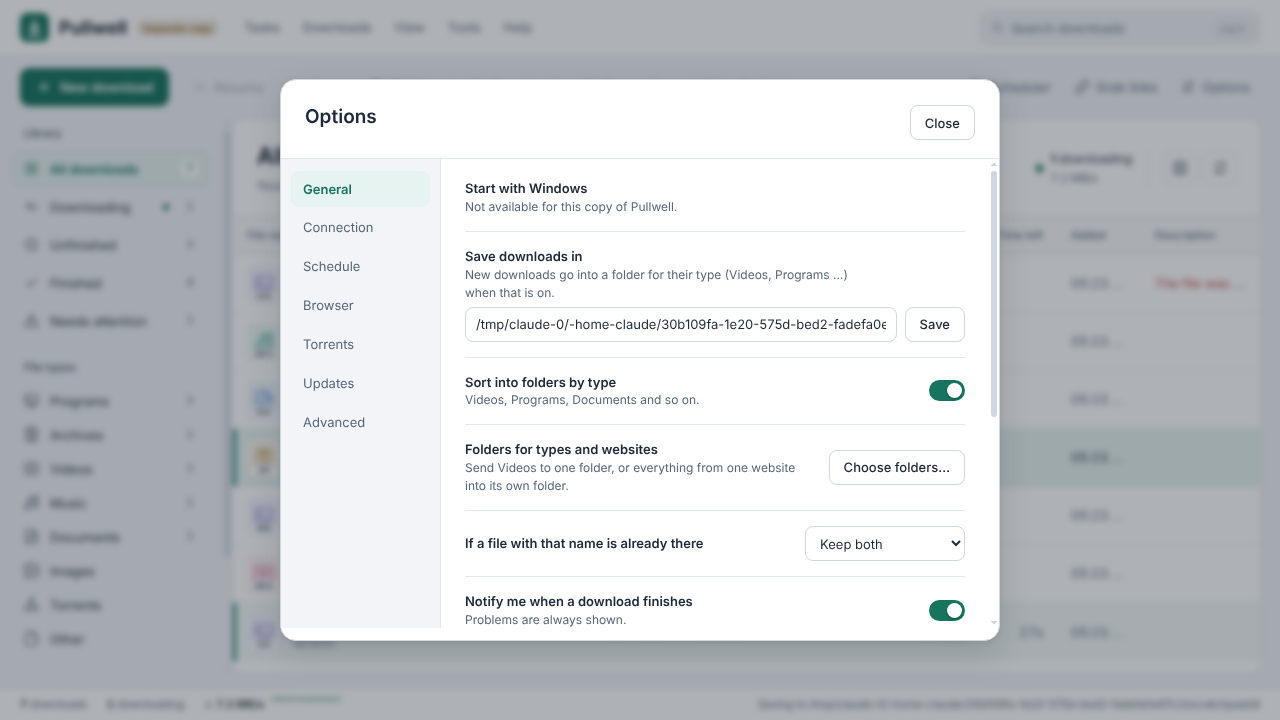
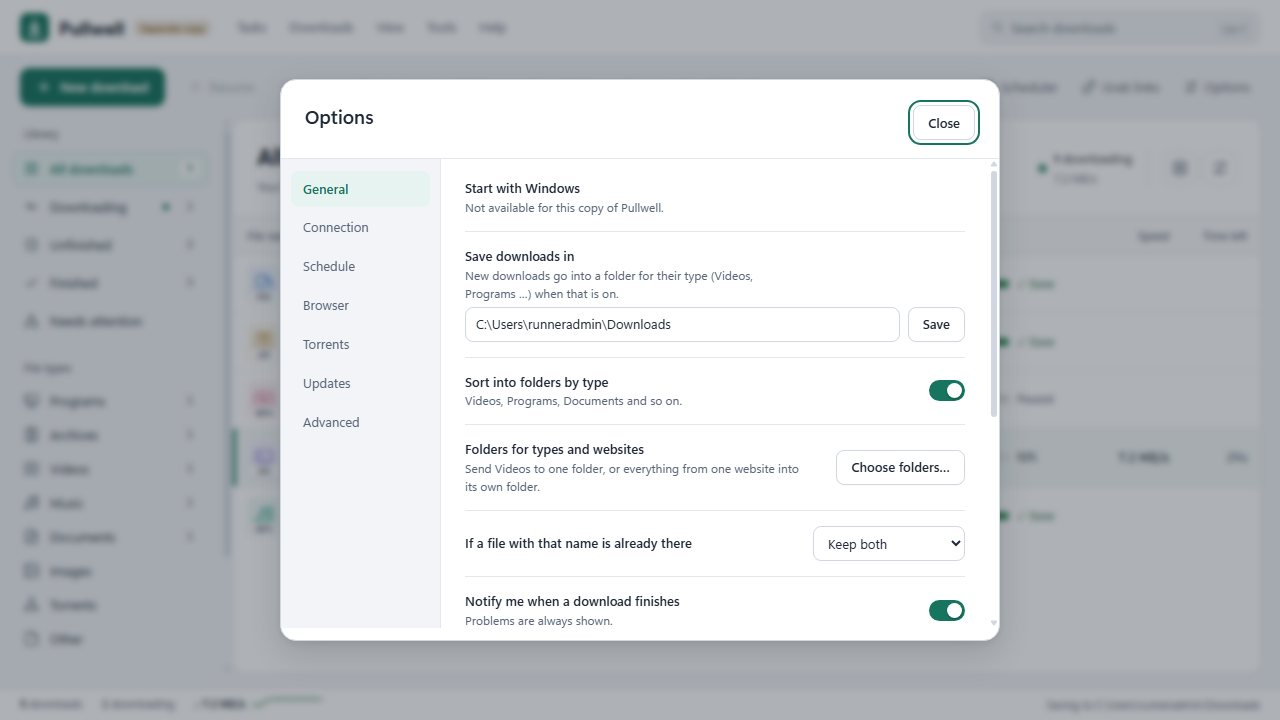
Docs: real Windows captures of the 0.13.0 progress window, main window and Options
Claude-Session: https://claude.ai/code/session_01L77RmcKVedv5stkJdweSQV

diff --git a/docs/superpowers/reviews/2026-11-12-download-popouts.md b/docs/superpowers/reviews/2026-11-12-download-popouts.md
@@ -69,3 +69,10 @@ Detailed evidence: `/tmp/pullwell-popouts-reviewed`, `/tmp/pullwell-popout-a11y`
 The release preparation subsequently verified the merged commit `2287399` on real Windows/WebView2 in [GitHub Actions run 43258859108](https://github.com/nisar87/pullwell/actions/runs/43258859108). All Windows jobs passed: engine/application tests, program integration, browser extension, and window checks. The dedicated 22-assertion pop-out suite verifies distinct HWNDs and WebViews, per-ID reuse, minimize/restore, independent controls, Properties removal, progress after the main UI closes, and native script-close without stopping transfers. The full window harness reports 225 passing assertions and zero failures.
 
 Screenshots and detailed results are retained in the `window-results` Actions artifact. Local browser screenshots use Linux font fallbacks; Windows captures use the actual system fonts. Process-crash recovery and close-during-controller-creation received code review and static validation; the smoke test does not inject those faults. On a native WebView process failure, affected progress windows close and can be reopened while transfers continue in the existing backend.
+
+## Refresh, 2026-11-14
+
+`popout-light.png` and `popout-dark.png` above are replaced with captures of the separate progress window of the
+0.13.0 interface, taken in the real Windows window (WebView2 156, Segoe UI Variable and Bahnschrift present) by
+`scripts/uitest/final_visuals.mjs` on a GitHub-hosted runner. The main-window and Options images in
+`docs/screenshots/` come from the same run.
